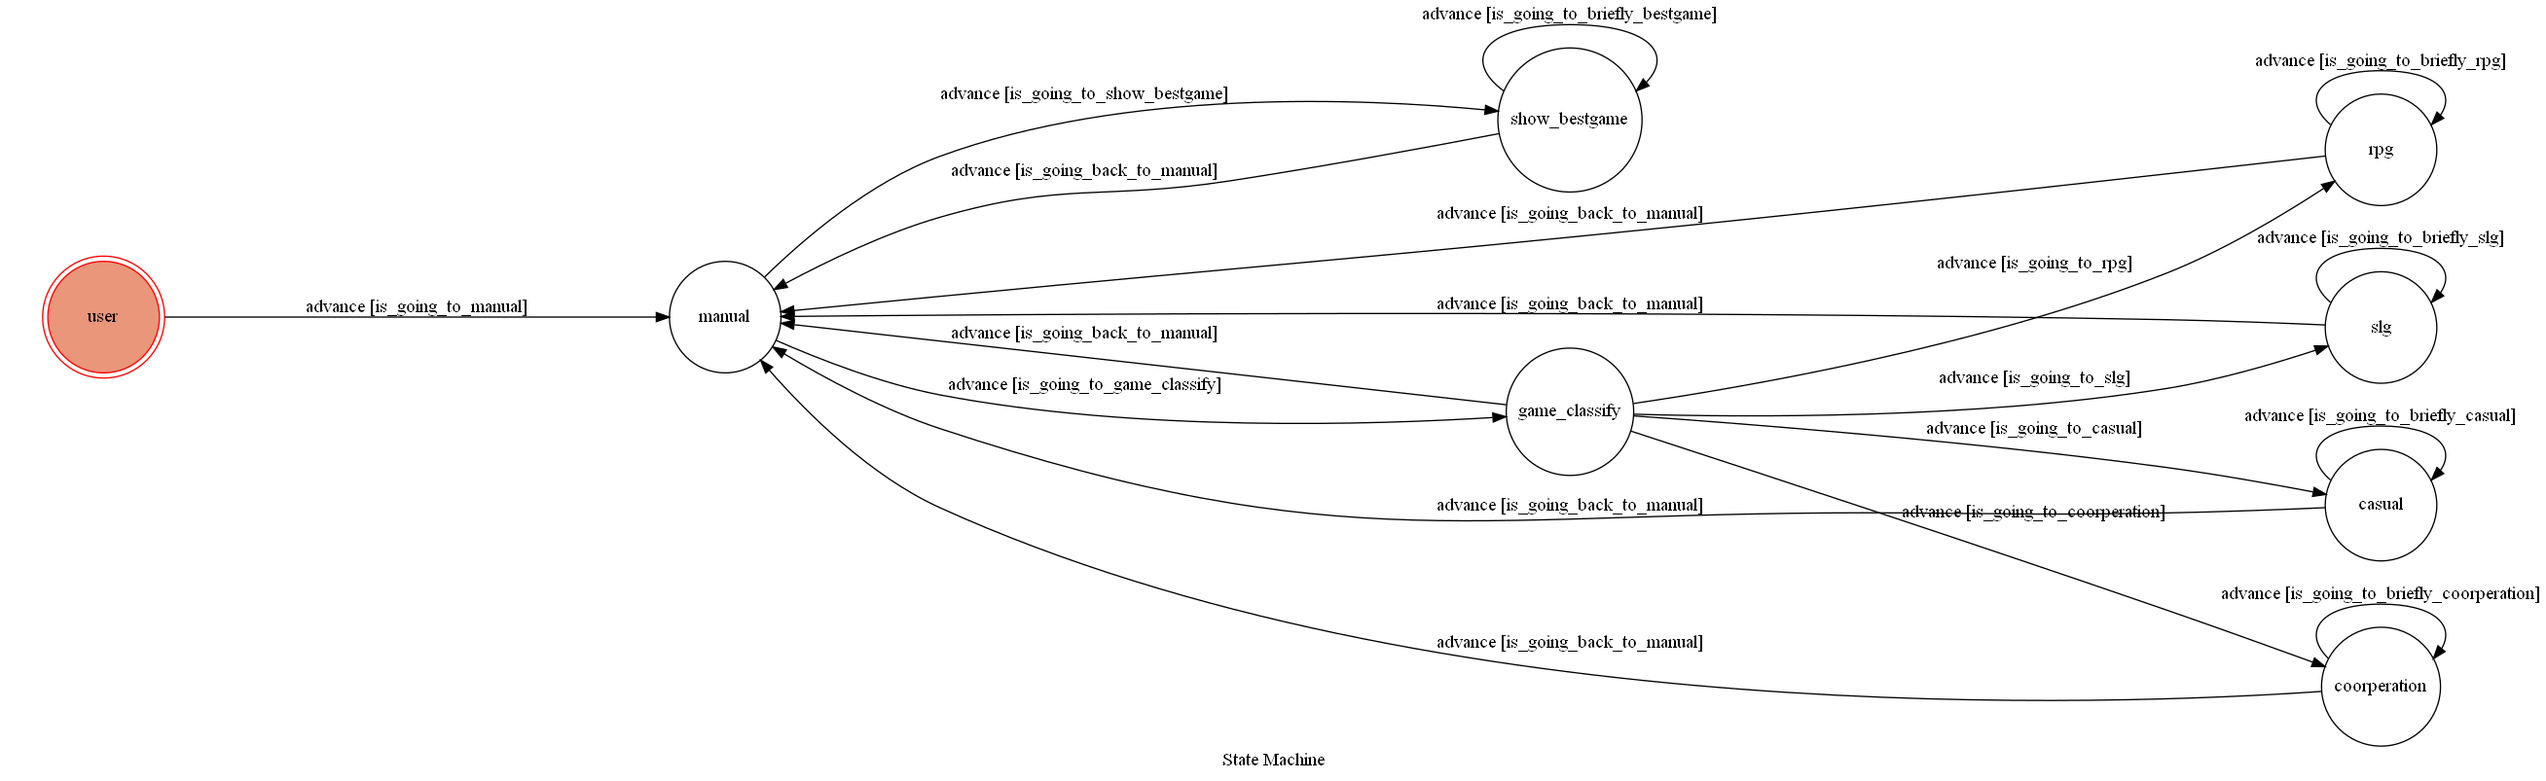
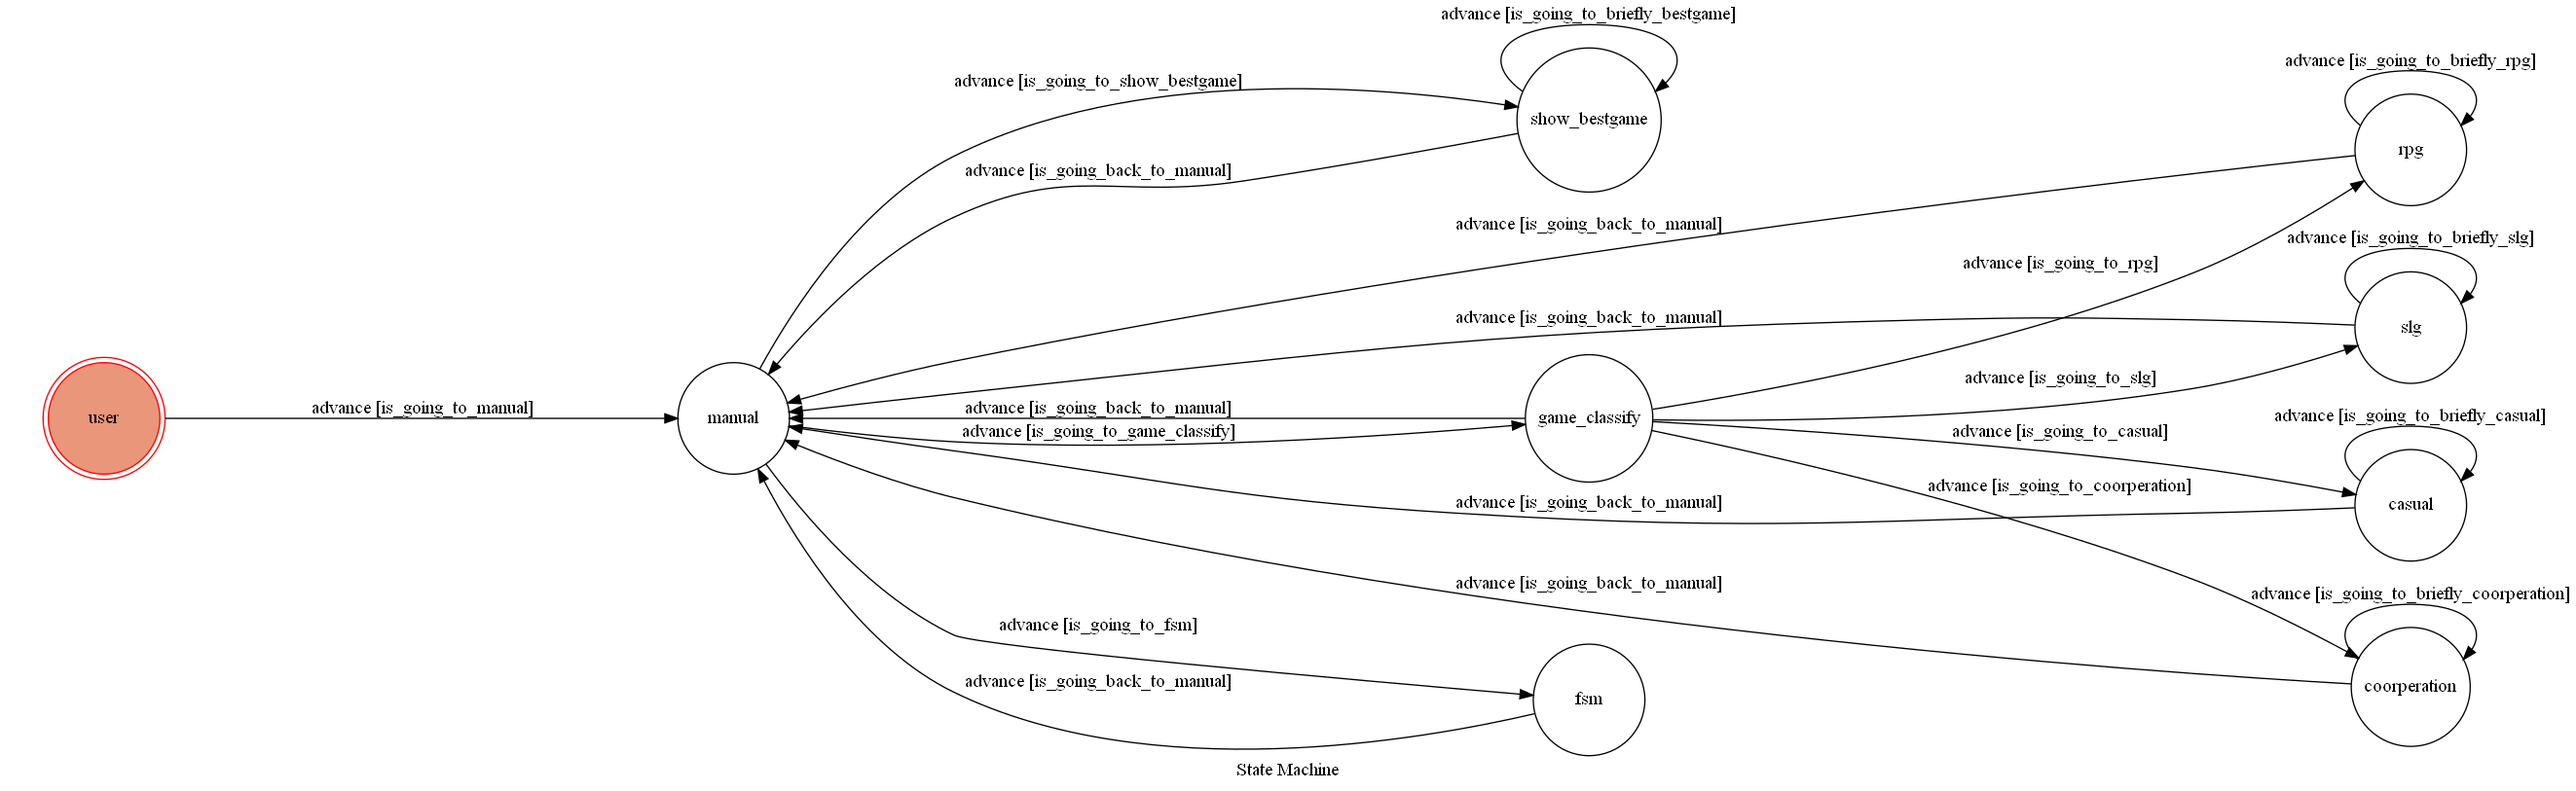
Can enter manual anyway

diff --git a/fsm.py b/fsm.py
@@ -26,7 +26,7 @@ class TocMachine(GraphMachine):
 
     def is_going_to_manual(self,event):
         text = event.message.text
-        return text.lower() == "manual"
+        return True
 
     def is_going_to_show_bestgame(self,event):
         text = event.message.text
@@ -76,69 +76,84 @@ class TocMachine(GraphMachine):
 
     def on_enter_fsm(self,event):
         userid = event.source.user_id
-        link = 'https://i.postimg.cc/tChYL0gq/fsm.png'
+        link = 'https://i.postimg.cc/V6w22mFt/fsm.png'
         send_image_url(userid,link)
         send_text_message(userid,"Type manual to go back to manual")
 
     def on_enter_rpg(self, event):
         print("Entering RPG")
+        text = event.message.text
         reply_token = event.reply_token
         # send_text_message(reply_token, "Trigger RPG")
         userid = event.source.user_id
-        show_top3_rpg(userid)
-        # web crawler ------------------------------------------------
         link = "https://zh-hant.10besty.com/best-rpg-games/"
-        titles,unuse2,unuse3,brieflys = web_crawler(link)
-        # web crawler ------------------------------------------------
-        send_briefly_message(event,userid,titles,brieflys)
+        if(text[-4:] != "內容簡介"):
+            show_top3(userid,link)
+        else:
+            # web crawler ------------------------------------------------
+            titles,unuse2,unuse3,brieflys = web_crawler(link)
+            # web crawler ------------------------------------------------
+            send_briefly_message(event,userid,titles,brieflys)
 
     def on_enter_slg(self, event):
         print("Entering SLG")
         reply_token = event.reply_token
         # send_text_message(reply_token, "Trigger SLG")
         userid = event.source.user_id
-        show_top3_slg(userid)
-        # web crawler ------------------------------------------------
+        text = event.message.text
         link = "https://zh-hant.10besty.com/best-strategy-games/"
-        titles,unuse2,unuse3,brieflys = web_crawler(link)
-        # web crawler ------------------------------------------------
-        send_briefly_message(event,userid,titles,brieflys)
+        if(text[-4:] != "內容簡介"):
+            show_top3(userid,link)
+        else:
+            # web crawler ------------------------------------------------
+            titles,unuse2,unuse3,brieflys = web_crawler(link)
+            # web crawler ------------------------------------------------
+            send_briefly_message(event,userid,titles,brieflys)
 
     def on_enter_casual(self, event):
         print("Entering Casual")
         reply_token = event.reply_token
         # send_text_message(reply_token, "Trigger Casual")
         userid = event.source.user_id
-        show_top3_casual(userid)
-        # web crawler ------------------------------------------------
+        text = event.message.text
         link = "https://zh-hant.10besty.com/best-casual-games/"
-        titles,unuse2,unuse3,brieflys = web_crawler(link)
-        # web crawler ------------------------------------------------
-        send_briefly_message(event,userid,titles,brieflys)
+        if(text[-4:] != "內容簡介"):
+            show_top3(userid,link)
+        else:
+            # web crawler ------------------------------------------------
+            titles,unuse2,unuse3,brieflys = web_crawler(link)
+            # web crawler ------------------------------------------------
+            send_briefly_message(event,userid,titles,brieflys)
 
     def on_enter_coorperation(self, event):
         print("Entering coorperation")
         reply_token = event.reply_token
         # send_text_message(reply_token, "Trigger coorperation")
         userid = event.source.user_id
-        show_top3_coorperation(userid)
-        # web crawler ------------------------------------------------
+        text = event.message.text
         link = "https://zh-hant.10besty.com/best-co-op-games/"
-        titles,unuse2,unuse3,brieflys = web_crawler(link)
-        # web crawler ------------------------------------------------
-        send_briefly_message(event,userid,titles,brieflys)
+        if(text[-4:] != "內容簡介"):
+            show_top3(userid,link)
+        else:
+            # web crawler ------------------------------------------------
+            titles,unuse2,unuse3,brieflys = web_crawler(link)
+            # web crawler ------------------------------------------------
+            send_briefly_message(event,userid,titles,brieflys)
 
     def on_enter_show_bestgame(self, event):
         print("Entering best game 2021")
         reply_token = event.reply_token
         # send_text_message(reply_token, "Trigger show best game")
-        userid = event.source.user_id
-        show_bestgame_2021(userid)
-        # web crawler ------------------------------------------------
         link = "https://zh-hant.10besty.com/best-steam-games/"
-        titles,unuse2,unuse3,brieflys = web_crawler(link)
-        # web crawler ------------------------------------------------
-        send_briefly_message(event,userid,titles,brieflys)
+        text = event.message.text
+        userid = event.source.user_id
+        if(text[-4:] != "內容簡介"):
+            show_top3(userid,link)
+        else:
+            # web crawler ------------------------------------------------
+            titles,unuse2,unuse3,brieflys = web_crawler(link)
+            # web crawler ------------------------------------------------
+            send_briefly_message(event,userid,titles,brieflys)
 
     def on_enter_game_classify(self, event):
         print("Entering game classify")
